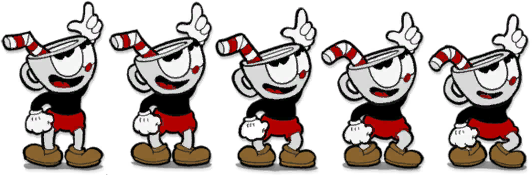
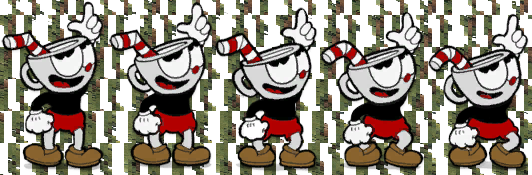
Player 애니메이션 삽입 중

diff --git a/Player.h b/Player.h
@@ -2,12 +2,10 @@
 #include "SpriteGo.h"
 #include "Animator.h"
 
-class SceneDev2;
-
 class Player : public SpriteGo
 {
 protected:
-	/*Animator animator;*/
+	Animator animator;
 	Direction currentDirection = Direction::Right;
 	Direction PreDirection = Direction::Right;
 
@@ -39,14 +37,11 @@ public:
 	~Player() override;
 
 	void Init() override;
-	void Release() override;
 	void Reset() override;
 	void Update(float dt) override;
 
 	void UpdateDirection(float horizontalInput, float dt);
 	void UpdateJumpingDirection(float horizontalInput, float verticalInput);
-
-	void Draw(sf::RenderWindow& window);
 
 	void Fire(Direction direction);
 	int GetHp() { return hp; }

diff --git a/Scene/SceneDev2.cpp b/Scene/SceneDev2.cpp
@@ -20,9 +20,13 @@ void SceneDev2::Init()
 	uiView.setSize(windowSize);
 	uiView.setCenter(centerPos);
 
+	background = new SpriteGo();
+	background->SetTexture("resource/RuseofanOoze.png");
+	background->SetOrigin(Origins::MC);
+	background->SetPosition({ 0,0 });
+
+
 	AddGo(new Player());
-
-
 
 	Scene::Init();
 }
@@ -46,4 +50,3 @@ void SceneDev2::Update(float dt)
 {
 	Scene::Update(dt);
 }
-

diff --git a/Framework/Animator.cpp b/Framework/Animator.cpp
@@ -137,9 +137,9 @@ void Animator::SetFrame(const AnimationFrame& frame)
 	Utils::SetOrigin(*target, frame.origin);
 }
 
-void Animator::Play(bool clearQueue)
+void Animator::Play()
 {
-	Play(currentClip->id, clearQueue);
+	Play(currentClip->id, true);
 }
 
 void Animator::SetCurrentCilp(const std::string& clipId)

diff --git a/Framework/SceneMgr.h b/Framework/SceneMgr.h
@@ -15,7 +15,7 @@ class SceneMgr : public Singleton<SceneMgr>
 protected:
 	std::vector<Scene*> scenes;
 
-	SceneIds startScene = SceneIds::SceneDev2;
+	SceneIds startScene = SceneIds::SceneDev;
 	SceneIds currentScene = startScene;
 	SceneIds nextScene = SceneIds::None;
 	bool isDeveloperMode = false;

diff --git a/Scene/SceneDev2.h b/Scene/SceneDev2.h
@@ -1,10 +1,13 @@
 #pragma once
 #include "Scene.h"
+
+class SpriteGo;
+
 class SceneDev2 : public Scene
 {
 protected:
 	sf::CircleShape circle;
-
+	SpriteGo* background = nullptr;
 public:
 	SceneDev2(SceneIds id);
 	virtual ~SceneDev2();

diff --git a/Scene/SceneDev.h b/Scene/SceneDev.h
@@ -1,9 +1,10 @@
 #pragma once
 #include "Scene.h"
+#include "Animator.h"
 class SceneDev : public Scene
 {
 protected:
-
+	Animator animator;
 public:
 	SceneDev(SceneIds id);
 	virtual ~SceneDev();
